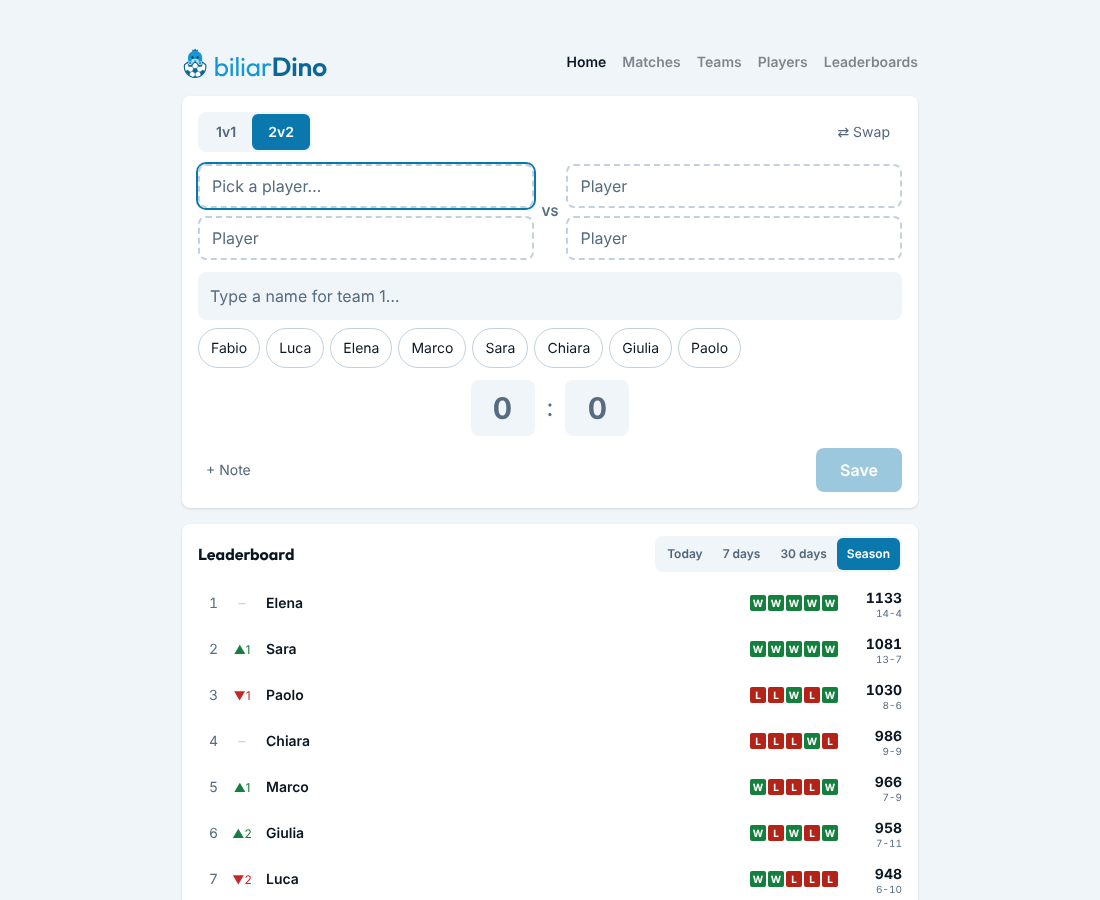
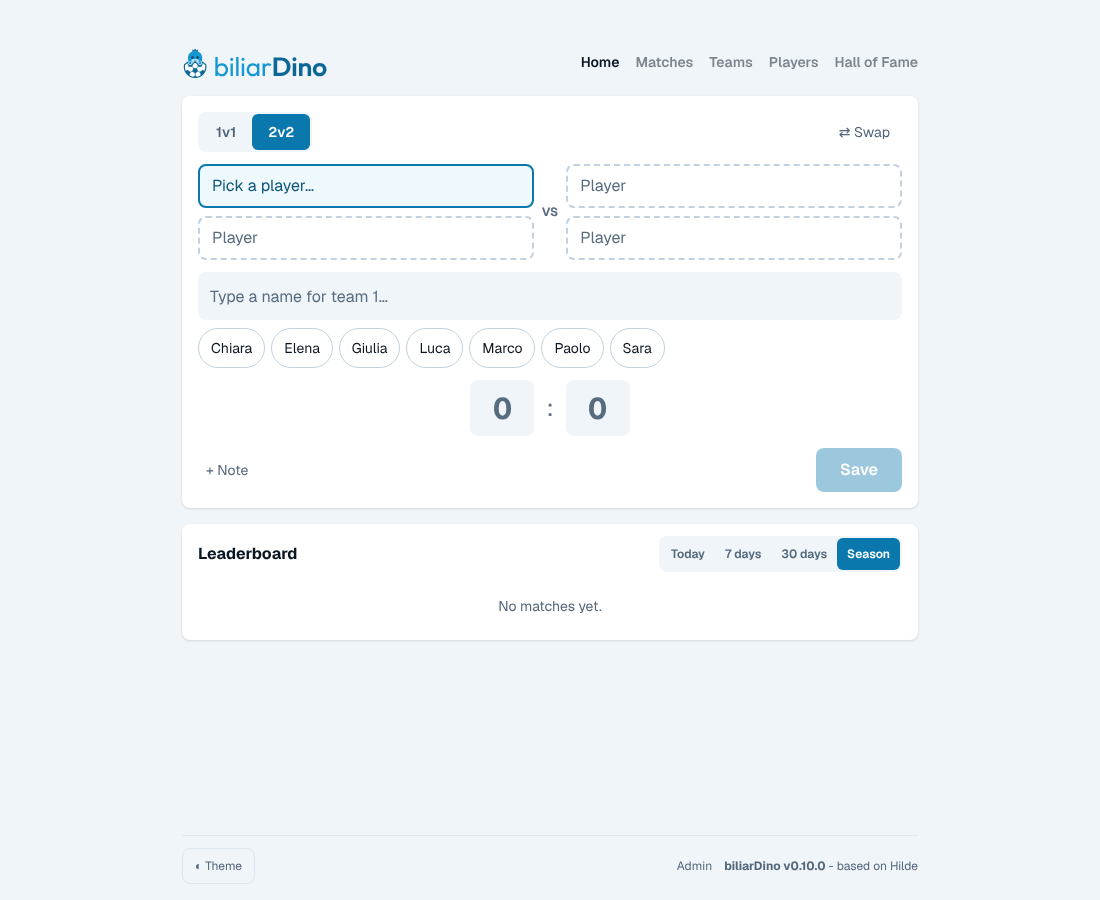
Geist for all text
- Geist (Vercel, OFL), Latin subset bundled with next/font/local (28 kB);
  replaces the per-device system font for body text and Outfit for
  headings, so the app looks the same everywhere
- picked from Geist, Gantari, Inter and Plus Jakarta Sans compared on
  the real pages; Geist has tabular digits (Gantari doesn't)
- match scores use Geist with tabular digits instead of the system mono
- Outfit stays only in design/logo (the wordmark is outlined)
- BRAND, ARCHITECTURE, README, CHANGELOG, home screenshot updated

Claude-Session: https://claude.ai/code/session_01So9CxAbi1to5iBb9YnPjrd

diff --git a/src/pages/_app.tsx b/src/pages/_app.tsx
@@ -6,10 +6,13 @@ import { Toaster } from "~/components/Elements/Toaster";
 import { ThemeProvider } from "next-themes";
 import localFont from "next/font/local";
 
-/** Brand typeface for headings (Outfit, SIL Open Font Licence, see src/fonts/OFL.txt). Bundled, no Google request. */
-const outfit = localFont({
-  src: "../fonts/Outfit-Variable.woff2",
-  variable: "--font-outfit",
+/**
+ * Geist, the typeface for all text (SIL Open Font Licence, see src/fonts/OFL.txt). Latin
+ * characters only (28 kB), bundled with the app: no request to Google, same look on every device.
+ */
+const geist = localFont({
+  src: "../fonts/Geist-Variable-latin.woff2",
+  variable: "--font-geist",
   weight: "100 900",
   display: "swap",
 });
@@ -17,7 +20,7 @@ const outfit = localFont({
 function App({ Component, pageProps }: AppProps) {
   return (
     <ThemeProvider attribute="class" defaultTheme="system" enableSystem>
-      <div className={outfit.variable}>
+      <div className={`${geist.variable} font-sans`}>
         <Layout>
           <Component {...pageProps} />
         </Layout>

diff --git a/src/styles/globals.css b/src/styles/globals.css
@@ -67,11 +67,11 @@
 }
 
 /*
- * `font-brand`: Outfit. --font-outfit is set by next/font on the app's wrapper (src/pages/_app.tsx),
+ * All text is Geist. --font-geist is set by next/font on the app's wrapper (src/pages/_app.tsx),
  * so the value is written into each class ("inline") instead of being resolved on <html>.
  */
 @theme inline {
-  --font-brand: var(--font-outfit), ui-sans-serif, system-ui, sans-serif;
+  --font-sans: var(--font-geist), ui-sans-serif, system-ui, sans-serif;
 }
 
 /* The colours that differ between light and dark */
@@ -135,13 +135,6 @@
   body {
     @apply bg-gray-100 text-gray-900 dark:bg-gray-900 dark:text-gray-100;
     min-height: 100dvh;
-  }
-
-  /* Brand typeface (Outfit, bundled) for headings; body text stays on the system font. */
-  h1,
-  h2,
-  h3 {
-    font-family: var(--font-outfit), ui-sans-serif, system-ui, sans-serif;
   }
 
   /* iOS zooms into inputs below 16px */

diff --git a/src/components/Elements/MatchTable.tsx b/src/components/Elements/MatchTable.tsx
@@ -75,7 +75,7 @@ export const MatchRow: FunctionComponent<{
         align="right"
       />
       <div
-        className="shrink-0 px-2 py-0.5 rounded-sm bg-gray-100 dark:bg-gray-900 font-mono tabular-nums text-base"
+        className="shrink-0 px-2 py-0.5 rounded-sm bg-gray-100 dark:bg-gray-900 font-semibold tabular-nums text-base"
         aria-label={`${match.score1} to ${match.score2}`}
       >
         {match.score1}

diff --git a/docs/BRAND.md b/docs/BRAND.md
@@ -45,7 +45,8 @@ Every text colour meets WCAG 2.2 AA contrast (4.5:1, or 3:1 for large text) on i
 
 ## Typeface
 
-[Outfit](https://github.com/Outfitio/Outfit-Fonts) (SIL Open Font Licence 1.1): the wordmark ("biliar" Regular 400, "Dino" SemiBold 600) and the headings in the app. It's bundled with the app (`src/fonts/`, Latin characters only, 33 kB), so no request goes to Google. Body text uses the device's system font.
+- **The app: [Geist](https://vercel.com/font)** (by Vercel, SIL Open Font Licence 1.1) for all text, headings included. Chosen from Geist, Gantari, Inter and Plus Jakarta Sans by comparing them on the real pages: crisp and modern, and it has same-width digits, so scores and ratings line up in columns (`tabular-nums`). Bundled with the app (`src/fonts/`, Latin characters only, 28 kB): no request to Google, and the same look on every device instead of each system's own font.
+- **The wordmark: [Outfit](https://github.com/Outfitio/Outfit-Fonts)** (SIL Open Font Licence 1.1), "biliar" Regular 400 and "Dino" SemiBold 600. The logo files contain the letters as outlines, so the app doesn't need Outfit itself.
 
 ## Sources
 

diff --git a/CHANGELOG.md b/CHANGELOG.md
@@ -12,6 +12,7 @@ The format is based on [Keep a Changelog](https://keepachangelog.com/en/1.0.0/),
 - A clean install prints one warning instead of four (`prebuild-install`, which comes with the SQLite driver and goes away with a future Prisma version)
 - Seasons page (admin): **Start season N** creates the next season and makes it current in one step; each season shows its dates (first and last match) and number of matches; clear dialogs for _Make current_ and _Delete_
 - Hall of Fame: each season shows the months it was played
+- **New typeface: Geist** for all text, bundled with the app, so biliarDino looks the same on every computer and phone (before, body text used each device's own system font). Scores in match lists use it too, with same-width digits.
 
 ### Fixed
 

diff --git a/README.md b/README.md
@@ -131,7 +131,7 @@ Players are defined once on the **Players** page (names are unique, case-insensi
 
 Based on [nehalist/hilde](https://github.com/nehalist/hilde) (last upstream commit: November 2023).
 
-- New identity (0.8.0): the biliarDino logo, celeste palette for light and dark, Outfit headings.
+- New identity (0.8.0): the biliarDino logo, celeste palette for light and dark; Geist for all text (0.10.0).
 - Renamed to **Biliardino** (0.7.1). A database file from before the rename (`hilde.db`) is renamed automatically on start.
 
 - Dependencies brought up to date (0.10.0): Next.js 16, React 19, tRPC 11, TanStack Query 5, Prisma 7, Tailwind CSS 4, ESLint 10, Jest 30, TypeScript 5.9, Node 22

diff --git a/docs/ARCHITECTURE.md b/docs/ARCHITECTURE.md
@@ -100,7 +100,7 @@ biliardino/
 │   │   └── editRules.ts        the 24-hour rule
 │   ├── model/                small helpers usable in browser and server
 │   ├── styles/globals.css    the few global styles, theme colour variables
-│   ├── fonts/                Outfit, the brand typeface (bundled)
+│   ├── fonts/                Geist, the typeface for all text (bundled)
 │   ├── generated/prisma/     the database client, generated from the schema (not in git)
 │   └── proxy.ts              sends /admin visitors to the login first
 ├── prisma/
